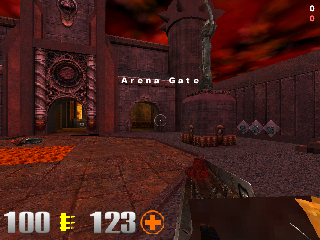
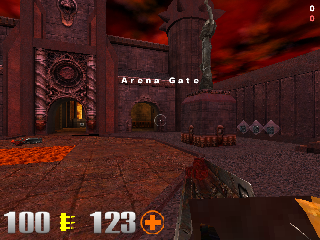
Paint the first frame right, mipmaps, the other arenas' screenshots
The vertex scratch buffer grew when the first big patch came along and the
face loop kept writing into the old array, so every first frame came out
black. Textures carry a mip chain and a polygon picks its level from the
texel density along its edges. 320×240 is the default detail.

diff --git a/src/renderer.js b/src/renderer.js
@@ -159,7 +159,6 @@ export class Renderer {
     const [fx, fy, fz] = view.fwd, [rx, ry, rz] = view.right, [ux, uy, uz] = view.up;
     const near = 4, sc = view.scale, cx = view.cx, cy = view.cy;
     let lastEnt = -1, M = null;
-    const vv = this.vv;
     for (let ri = 0; ri < rows.length; ri++) {
       const row = rows[ri];
       const face = row[0], ent = row[1], ox = row[2], oy = row[3], oz = row[4];
@@ -171,6 +170,7 @@ export class Renderer {
       if (ent !== lastEnt) { lastEnt = ent; M = ent && entAngles.get(ent) ? angleMatrix(entAngles.get(ent)) : null; }
       const verts = f.verts, m = f.nverts;
       this.polyRoom(m);
+      const vv = this.vv;   // (after polyRoom: it may have grown)
       let behind = false;
       for (let k = 0; k < m; k++) {
         const vi = k * 10;
@@ -209,7 +209,6 @@ export class Renderer {
     const near = 4;
     let i = 0;
     const n = rows.length;
-    const vv = this.vv;
     while (i < n) {
       const face = rows[i][0], ent = rows[i][11];
       const info = this.faceInfo.get(face);
@@ -218,6 +217,7 @@ export class Renderer {
       if (!info || info.look.nodraw) continue;
       const m = i - j;
       this.polyRoom(m);
+      const vv = this.vv;
       let behind = false;
       for (let k = 0; k < m; k++) {
         const r = rows[j + k], o = k * 9;

diff --git a/README.md b/README.md
@@ -1,6 +1,7 @@
 # Firebird Quake III Arena
 
-![The Arena Gate rendered from Firebird query results](docs/screenshot-q3dm1-3.png) ![the courtyard of q3dm1](docs/screenshot-q3dm1-0.png)
+![The Arena Gate rendered from Firebird query results](docs/screenshot-q3dm1-3.png) ![the Temple of Retribution](docs/screenshot-q3dm7-3.png)
+![The Longest Yard](docs/screenshot-q3dm17-3.png) ![The Proving Grounds](docs/screenshot-q3tourney2-3.png)
 
 Quake III Arena, simulated and rendered inside the [Firebird](https://firebirdsql.org) SQL database,
 running entirely in your browser on Firebird 6 compiled to WebAssembly. The third of the series, after
@@ -167,6 +168,7 @@ change; bind as text; count the calls before timing the bodies). New here:
   flat floor it flickered tic by tic (no collision while sliding horizontally). Quake III's
   `PM_GroundTrace`, a quarter unit down each tic, costs 0.6 ms and makes friction and acceleration
   behave; the jump pad's launch is kept by not clamping an upward velocity when the box starts in solid.
+- **A scratch buffer that grows mid-frame is a buffer the loop no longer holds.** The painter's vertex scratch grew when the first big patch (81 vertices) came along, and the loop kept writing into the array it had taken a reference to before; every first frame came out black. Take the reference after the growth, each time.
 - **A bot's think is nine milliseconds** — two traces to step, a trace to see, a trace to aim — so the
   bots think at 10 Hz on staggered clocks and look for a new enemy once a second. A tic with three bots
   costs about 7 ms in Node; the frame's query 5 to 7 ms.
